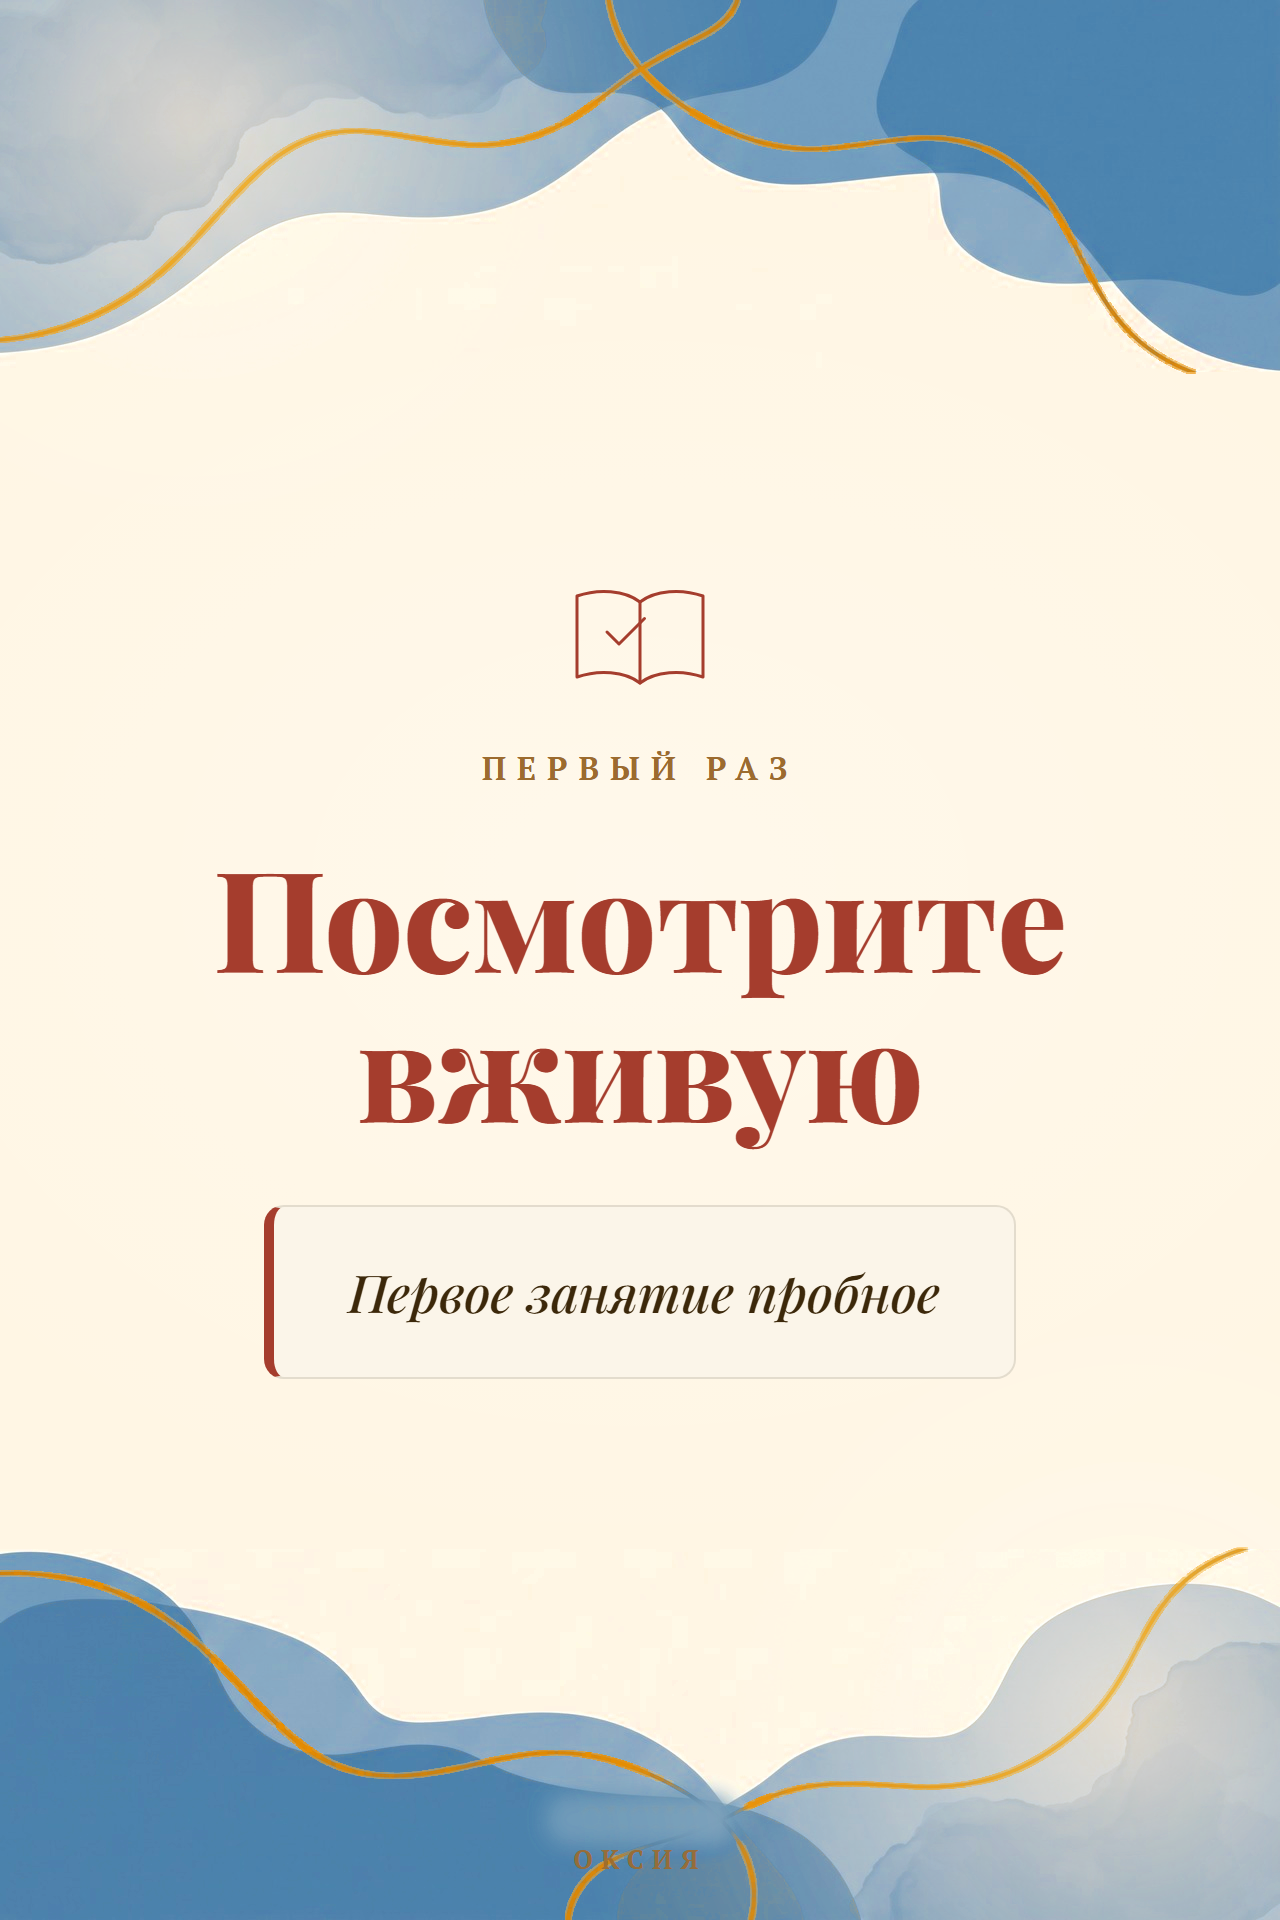
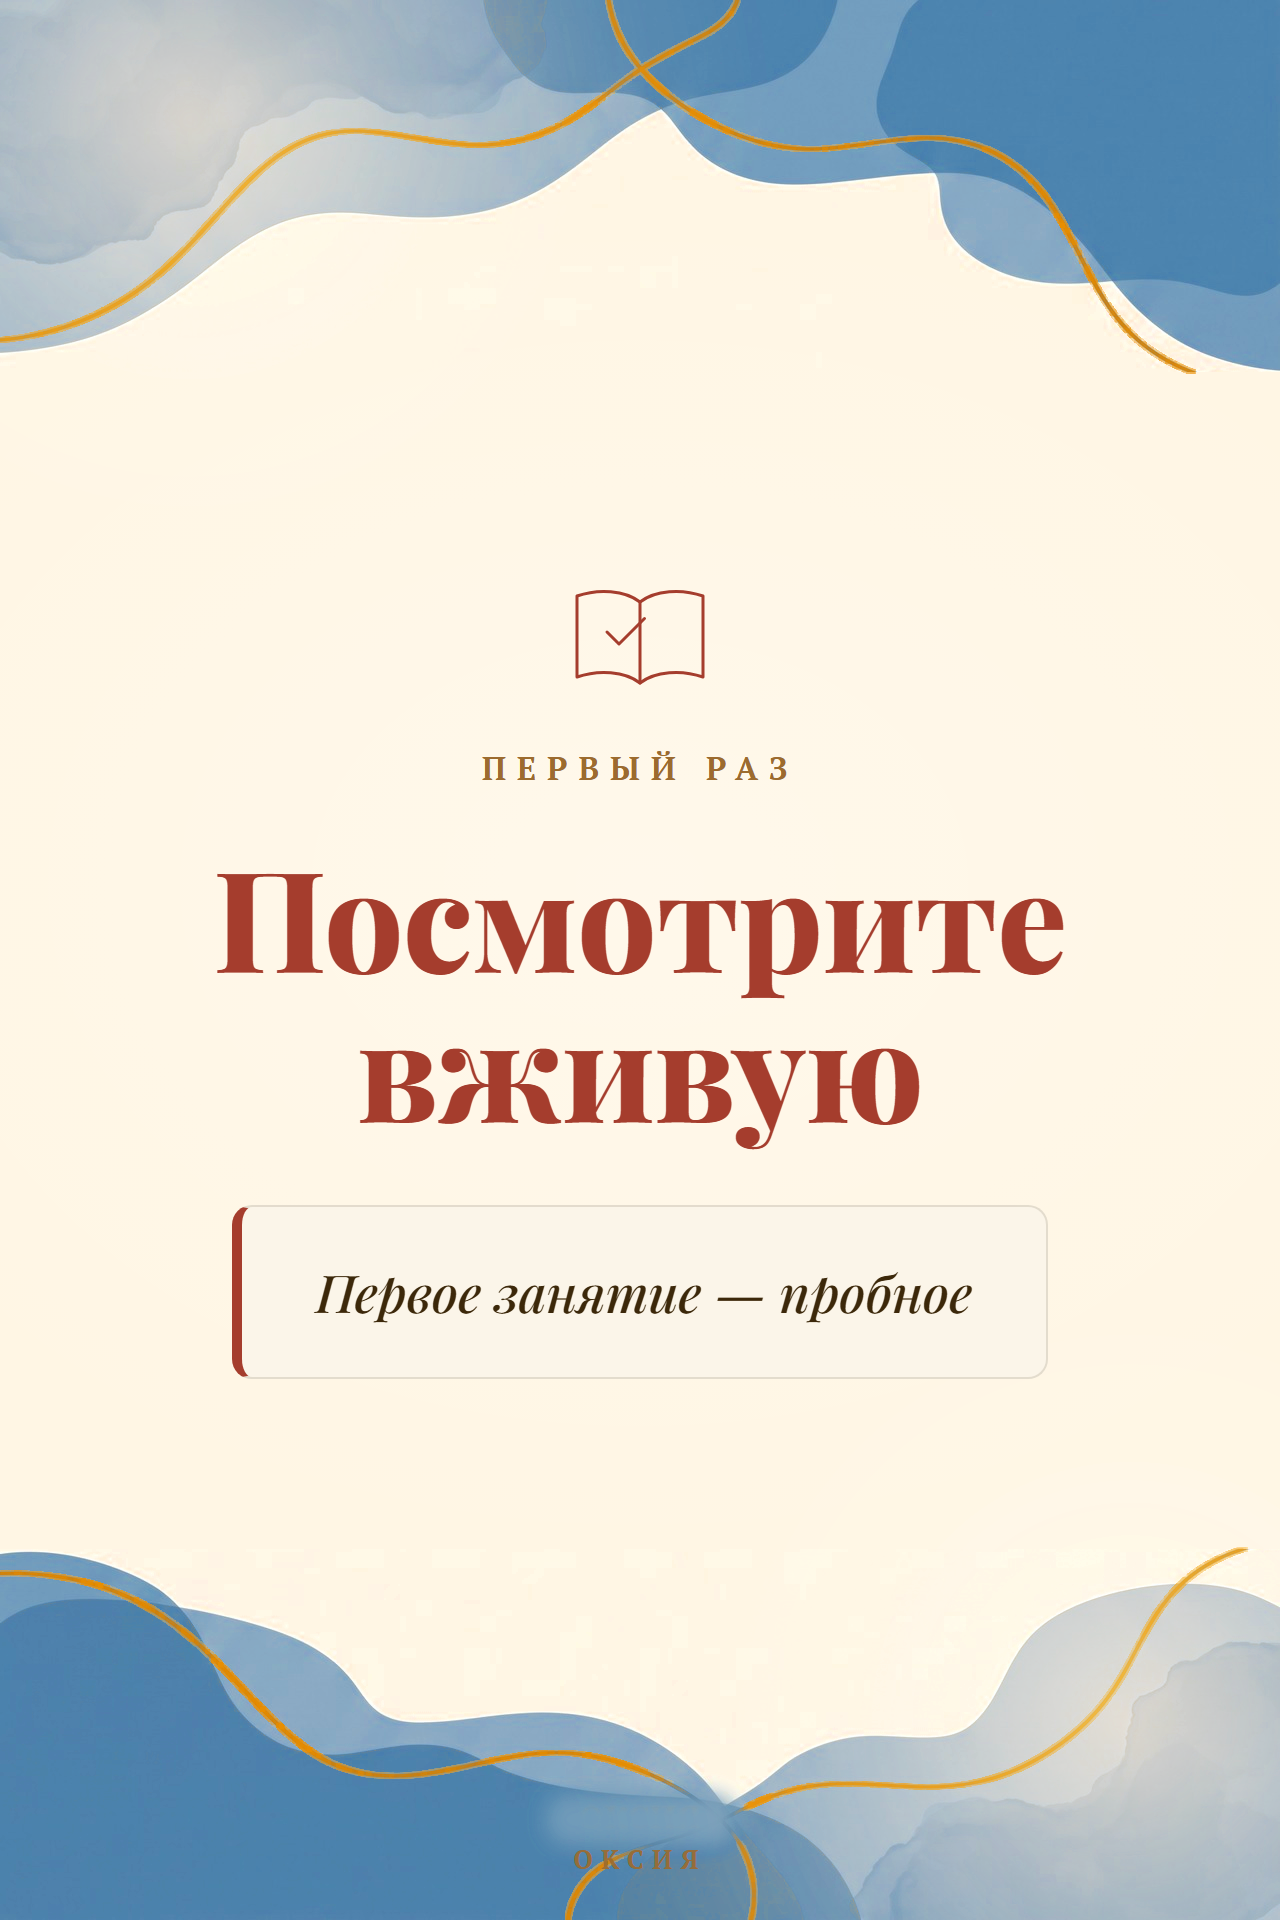
Добавить тире: 'Первое занятие — пробное' (слайды 17, 49)

Changed region(s): [[0.25, 0.6562, 0.75, 0.6875], [0.1562, 0.625, 0.2188, 0.7188]]

diff --git a/story-preview/_build/slide-bright.html b/story-preview/_build/slide-bright.html
@@ -267,7 +267,7 @@ const S = {
   <div class="kick">Кому подходит</div>
   <h1 class="disp">Тесно в большом<br>классе?</h1>
   <div class="lead">В классе, где 30 человек, учитель<br>не успевает дойти до каждого</div>
-  <div class="cap">первое занятие пробное</div>` },
+  <div class="cap">первое занятие — пробное</div>` },
 
 18:{ bg:'tb-bright', ghost:'₽', accent:'var(--green-muted)', icon:I.cap, isize:'150px', ns:'214px', html:`
   <div class="kick">Стоимость</div>
@@ -434,7 +434,7 @@ const S = {
 49:{ bg:'tb-bright', accent:'var(--red-muted)', icon:I.bookcheck, isize:'150px', ds:'140px', html:`
   <div class="kick">Первый раз</div>
   <h1 class="disp">Посмотрите<br>вживую</h1>
-  <div class="chip">Первое занятие пробное</div>` },
+  <div class="chip">Первое занятие — пробное</div>` },
 
 50:{ bg:'tb-bright-gold', align:'left', accent:'var(--green-muted)', icon:I.bell, isize:'150px', ds:'140px', html:`
   <div class="kick">Как записаться</div>
